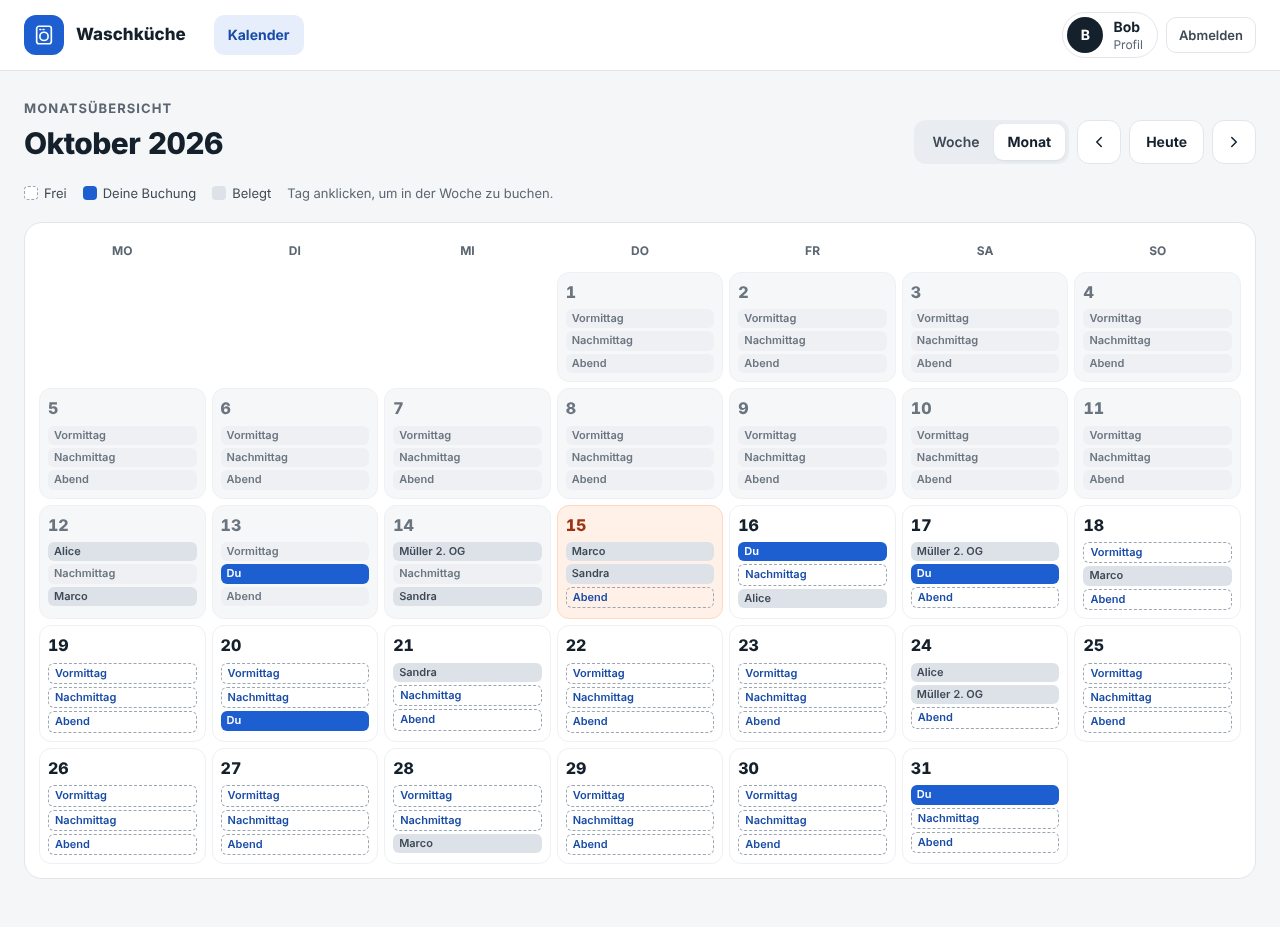
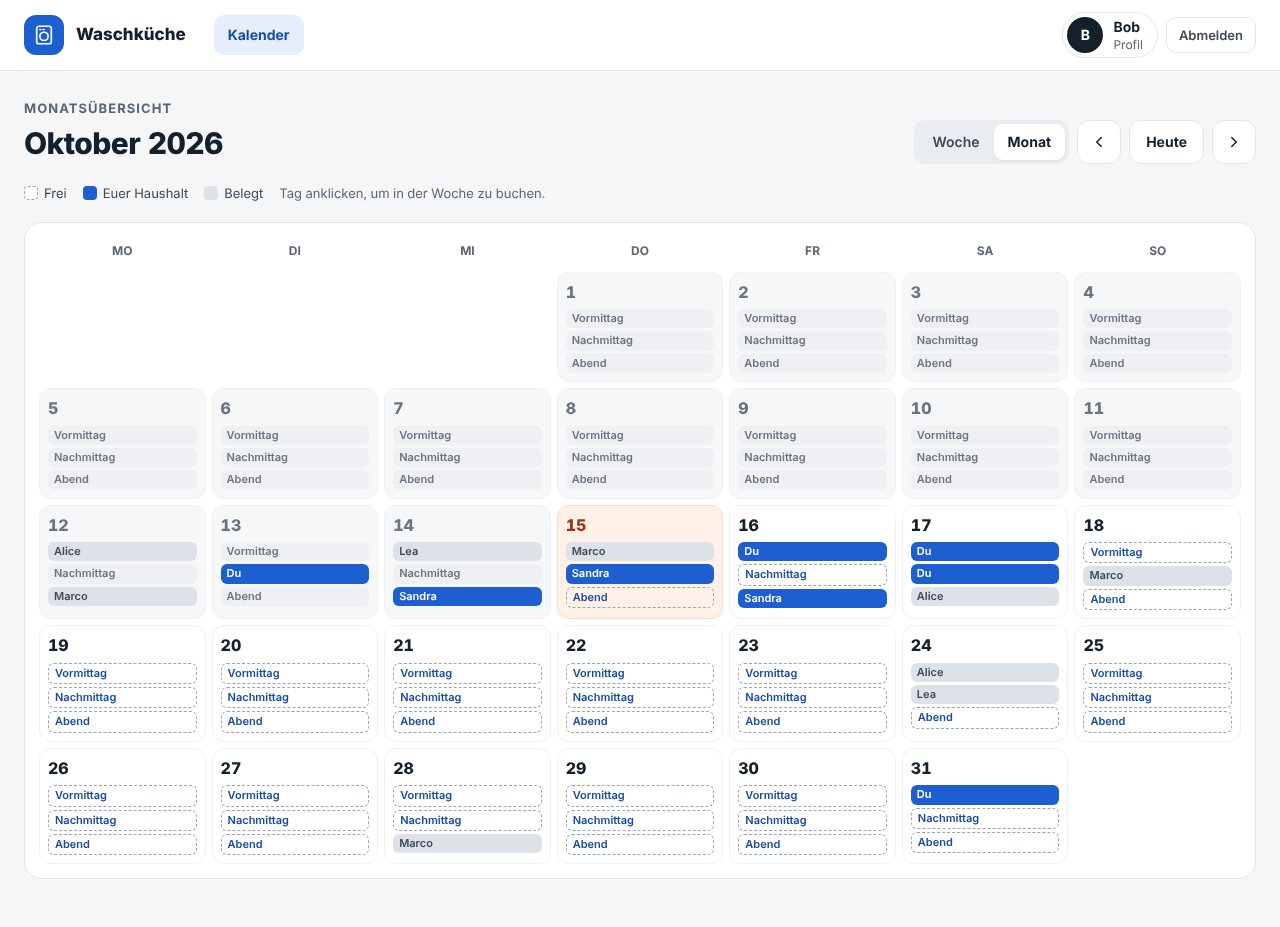
Let housemates see and cancel each other's bookings (#19)
* Let housemates see and cancel each other's bookings

A booking by anyone in the user's household now counts as their own in
the app: blue in the week and month view, cancelable without the
"Fremde Buchung" dialog, listed under "Eure nächsten Buchungen" with the
booker's name, and not reported as taken when booking a whole day.
Bookings still belong to the person who made them (name, reminders).

Claude-Session: https://claude.ai/code/session_01Lj8XJCfKQEuivmCFhpVdRi

* Retake week, month and phone screenshots with a household

Bob and Sandra share a household, so the screenshots show housemate
bookings in blue with their name and the "Eure nächsten Buchungen" list.
The housemate's name now sits in the bold line of that list.

Claude-Session: https://claude.ai/code/session_01Lj8XJCfKQEuivmCFhpVdRi

---------

diff --git a/site/index.html b/site/index.html
@@ -137,7 +137,7 @@
         <a class="btn" href="https://github.com/martigr/laundry-booking">View on GitHub</a>
       </div>
       <div class="shot">
-        <img src="screenshots/week.png" alt="Week view with three slots per day, some booked" width="1280" height="881">
+        <img src="screenshots/week.png" alt="Week view with three slots per day, some booked" width="1280" height="1005">
       </div>
     </div>
   </div>
@@ -145,7 +145,7 @@
   <section id="features">
     <div class="wrap">
       <h2>Simple on purpose</h2>
-      <p class="sub">No quotas, no app store. One login per resident, grouped into households if you like, a German user interface, and it runs on a single small server.</p>
+      <p class="sub">No quotas, no app store. One login per resident, grouped into households that share their bookings if you like, a German user interface, and it runs on a single small server.</p>
       <div class="features">
         <div class="card"><h3><span class="icon"><svg viewBox="0 0 24 24" aria-hidden="true"><path d="M8 8l4.8 12 1.9-5.3L20 12.8z"/><path d="M4.5 4.5l1.5 1.5M8 3v2.2M3 8h2.2"/></svg></span>One click to book</h3><p>Click a free slot to book it, click your own booking to cancel it. "Ganzer Tag" books every free slot of a day at once.</p></div>
         <div class="card"><h3><span class="icon"><svg viewBox="0 0 24 24" aria-hidden="true"><rect x="3.5" y="5" width="17" height="15" rx="2"/><path d="M3.5 9.5h17M8 3v4M16 3v4M7.5 13h2M11 13h2M14.5 13h2M7.5 16.5h2M11 16.5h2"/></svg></span>Week and month view</h3><p>The week calendar is the default; the month overview shows the bigger picture. Both work well on phones.</p></div>

diff --git a/laundry/templates/index.html b/laundry/templates/index.html
@@ -26,7 +26,7 @@
   <section class="split-main" aria-label="Wochenkalender">
     <div class="legend">
       <span><span class="swatch free"></span>Frei</span>
-      <span><span class="swatch mine"></span>Deine Buchung</span>
+      <span><span class="swatch mine"></span>{{ 'Euer Haushalt' if g.user['household_id'] else 'Deine Buchung' }}</span>
       <span><span class="swatch taken"></span>Belegt</span>
     </div>
     <div class="week">
@@ -71,13 +71,13 @@
     </div>
 
     <div class="card">
-      <h2>Deine nächsten Buchungen</h2>
+      <h2>{{ 'Eure nächsten Buchungen' if g.user['household_id'] else 'Deine nächsten Buchungen' }}</h2>
       {% if upcoming %}
       <ul class="upcoming">
         {% for u in upcoming %}
         <li>
           <div class="datebadge"><span>{{ u.wd }}</span><span>{{ u.day.day }}</span></div>
-          <div class="what"><strong>{{ u.label }}</strong><span>{{ u.name }} · {{ u.time }}</span></div>
+          <div class="what"><strong>{{ u.label }}{% if u.who %} · {{ u.who }}{% endif %}</strong><span>{{ u.name }} · {{ u.time }}</span></div>
           <form method="post" action="{{ url_for('bookings.cancel_many') }}">
             <input type="hidden" name="csrf_token" value="{{ csrf_token() }}">
             {% for id in u.ids %}<input type="hidden" name="id" value="{{ id }}">{% endfor %}

diff --git a/laundry/templates/_macros.html b/laundry/templates/_macros.html
@@ -16,7 +16,7 @@
   <button type="submit" class="{{ classes }}" aria-label="{{ c.day }} {{ c.slot }} buchen">{{ inner }}</button>
 </form>
 {%- elif c.cancelable -%}
-<form method="post" action="{{ url_for('bookings.cancel', rid=c.res['id']) }}"{% if not c.mine %} data-confirm-title="Fremde Buchung stornieren?" data-confirm="Die Buchung von {{ c.res['display_name'] }} ({{ c.label }}) wird storniert." data-confirm-ok="Stornieren" data-confirm-danger{% endif %}>
+<form method="post" action="{{ url_for('bookings.cancel', rid=c.res['id']) }}"{% if not c.ours %} data-confirm-title="Fremde Buchung stornieren?" data-confirm="Die Buchung von {{ c.res['display_name'] }} ({{ c.label }}) wird storniert." data-confirm-ok="Stornieren" data-confirm-danger{% endif %}>
   <input type="hidden" name="csrf_token" value="{{ csrf_token() }}">
   <input type="hidden" name="next" value="{{ request.full_path }}">
   <button type="submit" class="{{ classes }}" aria-label="{{ c.day }} {{ c.slot }} ({{ who }}) stornieren">{{ inner }}</button>

diff --git a/laundry/templates/month.html b/laundry/templates/month.html
@@ -23,7 +23,7 @@
 
 <div class="legend">
   <span><span class="swatch free"></span>Frei</span>
-  <span><span class="swatch mine"></span>Deine Buchung</span>
+  <span><span class="swatch mine"></span>{{ 'Euer Haushalt' if g.user['household_id'] else 'Deine Buchung' }}</span>
   <span><span class="swatch taken"></span>Belegt</span>
   <span class="hint">Tag anklicken, um in der Woche zu buchen.</span>
 </div>

diff --git a/laundry/bookings.py b/laundry/bookings.py
@@ -13,6 +13,14 @@ from .slots import MONTHS, SLOT_NAMES, WEEKDAYS, WEEKDAYS_LONG, fmt_day, last_bo
 bp = Blueprint('bookings', __name__)
 
 
+def household_ids():
+    """Ids of the current user and their housemates: their bookings count as the user's own."""
+    if 'household_ids' not in g:
+        g.household_ids = {r['id'] for r in get_db().execute(
+            'SELECT id FROM users WHERE id = ? OR household_id = ?', (g.user['id'], g.user['household_id']))}
+    return g.household_ids
+
+
 def load_reservations(start, end):
     rows = get_db().execute("""
         SELECT r.id, r.day, r.slot, r.user_id, u.display_name
@@ -27,8 +35,9 @@ def build_cell(day, slot_name, res, current, last_day):
     start, end = slot_bounds(day, slot_name)
     past = end <= current
     mine = bool(res) and res['user_id'] == g.user['id']
+    ours = bool(res) and res['user_id'] in household_ids()  # booked by me or a housemate
     if res:
-        state = 'mine' if mine else 'taken'
+        state = 'mine' if ours else 'taken'
     elif past:
         state = 'past'
     elif day > last_day:
@@ -45,9 +54,10 @@ def build_cell(day, slot_name, res, current, last_day):
         'running': start <= current < end,
         'res': res,
         'mine': mine,
+        'ours': ours,
         'state': state,
         'bookable': state == 'free',
-        'cancelable': bool(res) and not past and (mine or bool(g.user['is_admin'])),
+        'cancelable': bool(res) and not past and (ours or bool(g.user['is_admin'])),
     }
 
 
@@ -131,16 +141,24 @@ def sidebar_info(current):
                 break
         d += timedelta(days=1)
 
-    rows = get_db().execute(
-        'SELECT id, day, slot FROM reservations WHERE user_id = ? AND day >= ?',
-        (g.user['id'], today.isoformat())).fetchall()
-    upcoming = []
-    for r in rows:
+    ids = sorted(household_ids())
+    rows = get_db().execute(f"""
+        SELECT r.id, r.day, r.slot, r.user_id, u.display_name
+        FROM reservations r JOIN users u ON u.id = r.user_id
+        WHERE r.user_id IN ({", ".join("?" * len(ids))}) AND r.day >= ?
+    """, (*ids, today.isoformat())).fetchall()
+    by_user = {}
+    for r in sorted(rows, key=lambda r: (r['day'], SLOT_NAMES.index(r['slot']))):
         day = parse_day(r['day'])
         if slot_bounds(day, r['slot'])[1] > current:
-            upcoming.append({'id': r['id'], 'day': day, 'slot': r['slot']})
-    upcoming.sort(key=lambda u: (u['day'], SLOT_NAMES.index(u['slot'])))
-    upcoming = group_blocks(upcoming)
+            by_user.setdefault(r['user_id'], []).append(
+                {'id': r['id'], 'day': day, 'slot': r['slot'], 'who': r['display_name']})
+    upcoming = []
+    for uid, own in by_user.items():  # per member, so a housemate's adjacent slot stays a separate block
+        for b in group_blocks(own):
+            b['who'] = None if uid == g.user['id'] else own[0]['who']
+            upcoming.append(b)
+    upcoming.sort(key=lambda b: b['start'])
     for b in upcoming:
         b.update(wd=WEEKDAYS[b['day'].weekday()], label='heute' if b['day'] == today else fmt_day(b['day']))
 
@@ -254,9 +272,10 @@ def book_day():
             booked = [name for name in open_slots if con.execute(
                 'INSERT INTO reservations (day, slot, user_id) VALUES (?, ?, ?) ON CONFLICT (day, slot) DO NOTHING',
                 (day.isoformat(), name, g.user['id'])).rowcount]
+            # Slots of housemates count as already booked by us, not as taken
             others = [r['slot'] for r in con.execute(
-                'SELECT slot FROM reservations WHERE day = ? AND user_id != ?', (day.isoformat(), g.user['id']))
-                if r['slot'] in open_slots]
+                'SELECT slot, user_id FROM reservations WHERE day = ?', (day.isoformat(),))
+                if r['slot'] in open_slots and r['user_id'] not in household_ids()]
         taken = [name for name in open_slots if name in others]
         if booked:
             note = f' ({", ".join(taken)} {"war" if len(taken) == 1 else "waren"} schon vergeben)' if taken else ''
@@ -264,17 +283,17 @@ def book_day():
         elif taken:
             flash(f'Am {fmt_day(day)} ist nichts mehr frei.', 'warn')
         else:
-            flash(f'{fmt_day(day)} ist schon für dich gebucht.', 'ok')
+            flash(f'{fmt_day(day)} ist schon für {"euch" if len(household_ids()) > 1 else "dich"} gebucht.', 'ok')
     return back_to_calendar()
 
 
 def cancel_reservations(ids):
-    """Cancel the given reservations: 404 if one is missing, 403 if one isn't yours (unless admin)."""
+    """Cancel the given reservations: 404 if one is missing, 403 if one isn't your household's (unless admin)."""
     con = get_db()
     rows = con.execute(f'SELECT * FROM reservations WHERE id IN ({", ".join("?" * len(ids))})', ids).fetchall()
     if len(rows) != len(ids):
         abort(404)
-    if not g.user['is_admin'] and any(r['user_id'] != g.user['id'] for r in rows):
+    if not g.user['is_admin'] and any(r['user_id'] not in household_ids() for r in rows):
         abort(403)
     current = slots.now()
     rows = [r for r in rows if slot_bounds(parse_day(r['day']), r['slot'])[1] > current]

diff --git a/tests/test_bookings.py b/tests/test_bookings.py
@@ -201,3 +201,88 @@ def test_cancel_block_skips_past_slots(client, query, reservations, login):
     assert reservations() == [('2026-10-15', 'Vormittag', 'bob')]
     client.post('/cancel', data={'id': ids[:1], 'csrf_token': t})
     assert reservations() == [('2026-10-15', 'Vormittag', 'bob')]
+
+
+def household(app, *usernames):
+    """Put the users into one new household."""
+    from laundry.db import get_db
+    from laundry.users import create_user
+    with app.app_context():
+        for name in usernames:
+            if not get_db().execute('SELECT 1 FROM users WHERE username = ?', (name,)).fetchone():
+                create_user(name, 'secret1234', name.capitalize())
+        with get_db() as con:
+            hid = con.execute("INSERT INTO households (name) VALUES ('WG')").lastrowid
+            con.executemany('UPDATE users SET household_id = ? WHERE username = ?', [(hid, n) for n in usernames])
+
+
+def test_housemates_cancel_each_others_bookings(app, client, query, reservations, login):
+    household(app, 'bob', 'carol')
+    t = login('carol')
+    book(client, t, '2026-10-17', 'Abend')
+    book(client, t, '2026-10-18', 'Abend')
+    first, second = [r[0] for r in query('SELECT id FROM reservations ORDER BY id')]
+
+    t = login('bob')
+    resp = client.post(f'/cancel/{first}', data={'csrf_token': t}, follow_redirects=True)
+    assert 'Storniert: Sa 17. Okt. · Abend' in resp.get_data(as_text=True)
+    client.post('/cancel', data={'id': [second], 'csrf_token': t})
+    assert reservations() == []
+
+
+def test_household_does_not_extend_to_others(app, client, query, reservations, login):
+    household(app, 'bob', 'carol')
+    t = login('bob')
+    book(client, t, '2026-10-17', 'Abend')
+    bobs = query('SELECT id FROM reservations')[0][0]
+    with app.app_context():
+        from laundry.users import create_user
+        create_user('dave', 'secret1234', 'Dave')
+    t = login('dave')
+    assert client.post(f'/cancel/{bobs}', data={'csrf_token': t}).status_code == 403
+
+    # A block with one booking from outside the household is refused as a whole
+    t = login('alice')
+    book(client, t, '2026-10-18', 'Abend')
+    alices = query("SELECT id FROM reservations WHERE day = '2026-10-18'")[0][0]
+    t = login('carol')
+    assert client.post('/cancel', data={'id': [bobs, alices], 'csrf_token': t}).status_code == 403
+    assert len(reservations()) == 2
+
+
+def test_housemate_bookings_look_like_own(app, client, login):
+    household(app, 'bob', 'carol')
+    t = login('carol')
+    book(client, t, '2026-10-17', 'Abend')
+    book(client, t, '2026-10-17', 'Nachmittag')
+    login('bob')
+    page = client.get('/?week=2026-10-17').get_data(as_text=True)
+    assert 'class="slot mine cancelable"' in page
+    assert 'Carol' in page and 'data-confirm' not in page  # no "Fremde Buchung" dialog
+    assert 'Euer Haushalt' in page
+    # Upcoming bookings of the household, with who booked them
+    assert 'Eure nächsten Buchungen' in page
+    assert 'Sa 17. Okt. · Carol</strong><span>Nachmittag – Abend · 12:00 – 22:00</span>' in page
+    assert 'Euer Haushalt' in client.get('/month?month=2026-10').get_data(as_text=True)
+
+
+def test_without_household_nothing_changes(client, login):
+    t = login('bob')
+    book(client, t, '2026-10-17', 'Abend')
+    page = client.get('/?week=2026-10-17').get_data(as_text=True)
+    assert 'Deine Buchung' in page and 'Deine nächsten Buchungen' in page
+    assert 'Sa 17. Okt.</strong>' in page  # no name on own bookings
+
+
+def test_book_whole_day_counts_housemate_slots_as_ours(app, client, reservations, login):
+    household(app, 'bob', 'carol')
+    t = login('carol')
+    book(client, t, '2026-10-17', 'Abend')
+    t = login('bob')
+    book_day(client, t, '2026-10-17')
+    text = client.get('/?week=2026-10-17').get_data(as_text=True)
+    assert 'Gebucht: Sa 17. Okt. · Vormittag, Nachmittag' in text
+    assert 'schon vergeben' not in text
+    book_day(client, t, '2026-10-17')
+    assert 'ist schon für euch gebucht' in client.get('/').get_data(as_text=True)
+    assert len(reservations()) == 3

diff --git a/docs/DEVELOPMENT.md b/docs/DEVELOPMENT.md
@@ -199,8 +199,8 @@ value TEXT         defaults in db.DEFAULT_SETTINGS
 | `/month` | GET | `bookings.month` | user | Month overview; `?month=YYYY-MM` |
 | `/book` | POST | `bookings.book` | user | `day`, `slot`, `next` |
 | `/book-day` | POST | `bookings.book_day` | user | `day`, `next`; books all free slots of the day that haven't ended |
-| `/cancel/<id>` | POST | `bookings.cancel` | owner or admin | Only before the slot has ended |
-| `/cancel` | POST | `bookings.cancel_many` | owner or admin | `id` (repeated), `next`; cancels a block, skips ended slots |
+| `/cancel/<id>` | POST | `bookings.cancel` | owner, housemate or admin | Only before the slot has ended |
+| `/cancel` | POST | `bookings.cancel_many` | owner, housemate or admin | `id` (repeated), `next`; cancels a block, skips ended slots |
 | `/profile` | GET/POST | `profile.index` | user | `action=name`, `action=notifications` (a changed address needs confirming), `action=verify_email` (send the confirmation again), `action=calendar` (create or renew the calendar link), `action=calendar_delete`, or `action=password` with `old_password`, `new_password`, `new_password2` (must match) |
 | `/admin` | GET | `admin.index` | admin | Users, households and settings |
 | `/admin/users` | POST | `admin.create` | admin | Create user |
@@ -227,9 +227,16 @@ All of them live in `bookings.book()` and `bookings.cancel()`; the UI only mirro
 - Booking is allowed up to `today + horizon_weeks` (`slots.last_bookable_day()`).
 - **Whole day:** `book_day()` inserts each slot of the day that hasn't ended with
   `ON CONFLICT (day, slot) DO NOTHING` in one transaction. Slots someone else already has
-  stay theirs; the flash message names them. No quota, like single slots.
-- Users cancel their own bookings; admins can cancel any. `cancel_reservations()` is shared by
-  `/cancel/<id>` and `/cancel`: 404 if any id is missing, 403 if any booking isn't yours.
+  stay theirs; the flash message names them (slots of housemates don't count as taken). No quota,
+  like single slots.
+- Users cancel their own bookings and those of their housemates; admins can cancel any.
+  `cancel_reservations()` is shared by `/cancel/<id>` and `/cancel`: 404 if any id is missing, 403 if
+  any booking isn't your household's.
+- **Households:** `bookings.household_ids()` returns the current user's id plus those of everyone with
+  the same `household_id` (cached on `g`). A booking by any of them counts as the user's own:
+  `build_cell()` sets `ours` (state `mine`, blue, cancelable, no "Fremde Buchung" dialog) next to
+  `mine` (booked by the user personally, labelled "Du"). Bookings still belong to the person who made
+  them, so reminders go to them and the cell shows their name.
 - "Now" always comes from `slots.now()`, which uses the `TIMEZONE` config. Call it as
   `slots.now()` (module attribute), never `from .slots import now`, and never
   `datetime.now()`: the tests replace `slots.now` with a fixed time.
@@ -245,8 +252,8 @@ logic. `build_days()` also sets `book_day`, the label of the day's whole-day but
 slots are bookable.
 
 `bookings.sidebar_info()` computes the "Jetzt in der Waschküche" card, the next free
-slot within the horizon and the user's upcoming bookings. `group_blocks()` merges
-adjacent slots of the same day and user into one block ("Nachmittag – Abend",
+slot within the horizon and the upcoming bookings of the user's household (housemates' with their
+name). `group_blocks()` merges adjacent slots of the same day and user into one block ("Nachmittag – Abend",
 "Ganzer Tag"), both in the upcoming list (one cancel button per block) and for the
 running booking.
 
@@ -258,7 +265,7 @@ Calendar via its web UI). Other households' bookings are never in it.
 
 - Households: an admin creates them and assigns users (`users.household_id`) in the admin area,
   so several accounts (e.g. a couple, each with their own login) see each other's bookings in their
-  subscribed calendar. A user without a household gets only their own bookings. Bookings still
+  subscribed calendar and can cancel them in the app (see *Booking rules*). A user without a household gets only their own bookings. Bookings still
   belong to the user; deleting a household only clears `household_id`. In a household feed the
   `SUMMARY` names who booked ("Waschküche: Abend (Bob)"), and blocks are merged per member only.
   Only admins assign households, so nobody can add themselves to another household's feed.
@@ -367,7 +374,7 @@ Mail texts are plain text and German; links use `BASE_URL`, since the notifier h
 
 ## Frontend
 
-- Design tokens are CSS variables in `:root` of `style.css`. Blue = your booking,
+- Design tokens are CSS variables in `:root` of `style.css`. Blue = yours or your household's,
   grey = someone else's, dashed = free, orange = today and the running slot.
 - Layout: flexbox/grid. The week grid has 7 columns on desktop and switches at
   `max-width: 860px` to one row per day with the three slots next to each other.

diff --git a/CLAUDE.md b/CLAUDE.md
@@ -28,7 +28,8 @@ flask --app laundry --debug run              # dev server on :5000
 - UI text is **German** (Swiss style: "ss" instead of "ß"). Code, comments, docs and commits are English.
 - No quotas, by design: whoever books first gets the slot. Don't add limits unless asked.
 - Bookings belong to `users.id`; `display_name` is what others see. Several accounts can share a household
-  (`households`, `users.household_id`, set by admins); for now it only joins their calendar feeds.
+  (`households`, `users.household_id`, set by admins): housemates' bookings count as one's own
+  (`bookings.household_ids()`: blue, cancelable, in the upcoming list and the calendar feed).
 - Get the current time only via `slots.now()` (module attribute; tests replace it), never `datetime.now()`.
 - DB access through `get_db()` (one connection per request); writes inside `with get_db() as con:`.
 - Create users only through `users.create_user()` (validation, lowercase usernames).

diff --git a/README.md b/README.md
@@ -29,6 +29,8 @@ Whoever is first gets the slot; if something doesn't fit, people talk to each ot
 - One click on a free slot books it, one click on your own booking cancels it
 - "Ganzer Tag" books all free slots of a day at once
 - Adjacent bookings show up as one block in your upcoming bookings (and cancel together)
+- Households: residents that an admin groups into a household see each other's bookings as their own
+  and can cancel them
 - "Now in the laundry room" card, next free slot and your upcoming bookings
 - Past slots can't be booked or cancelled; booking is possible up to N weeks ahead
 - Minimal admin area: create/delete users, group them into households, reset passwords, set the booking horizon;
